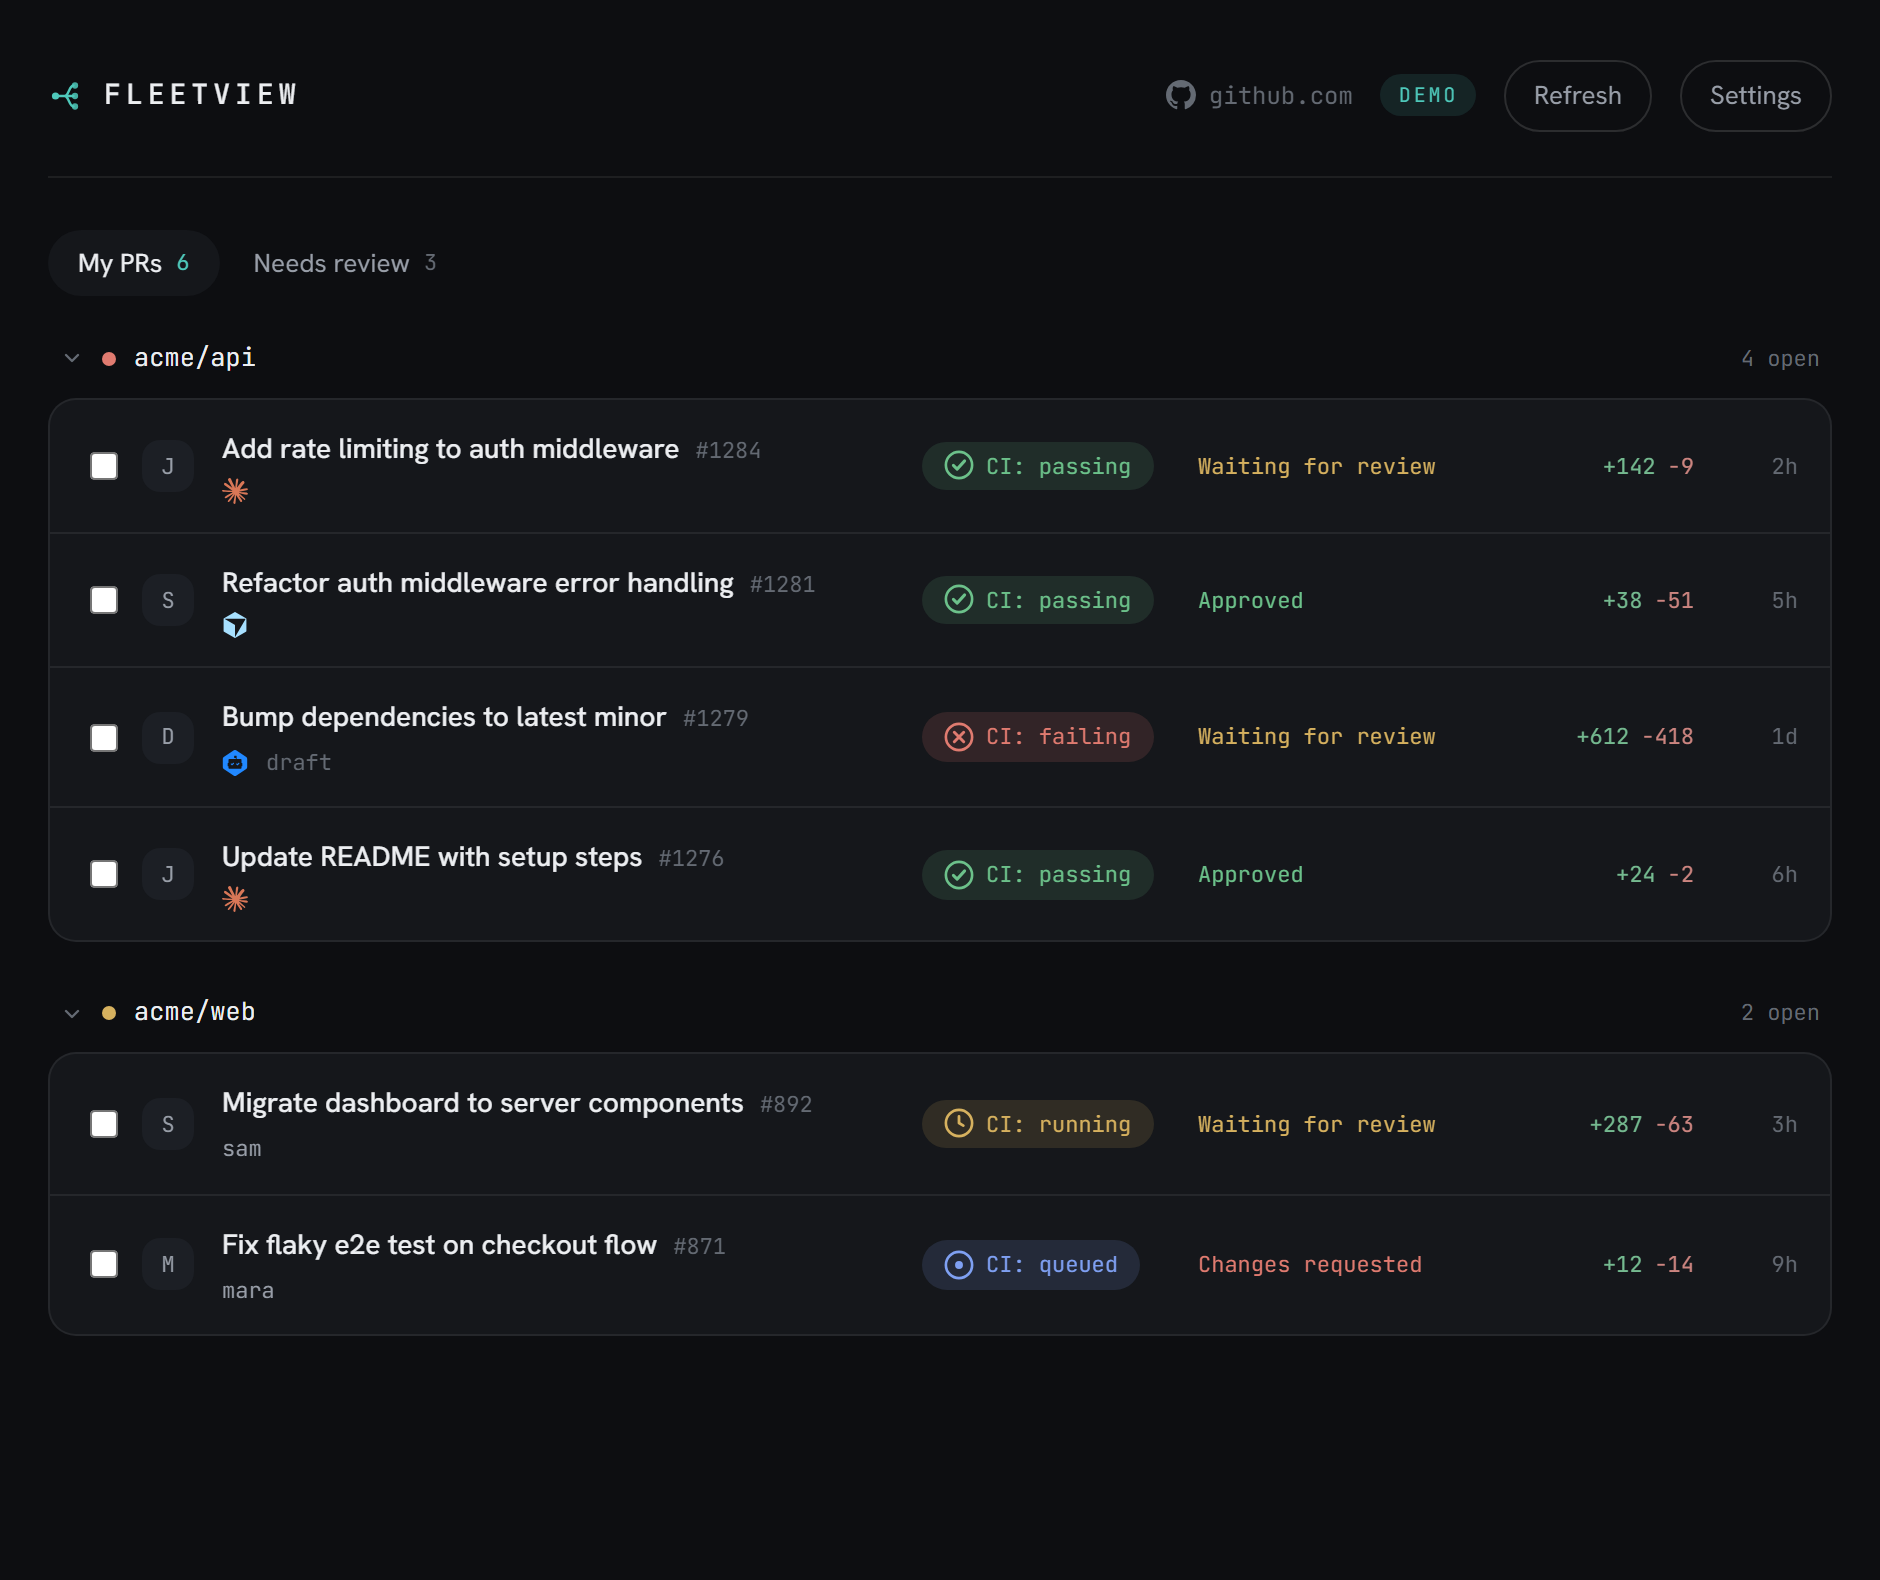
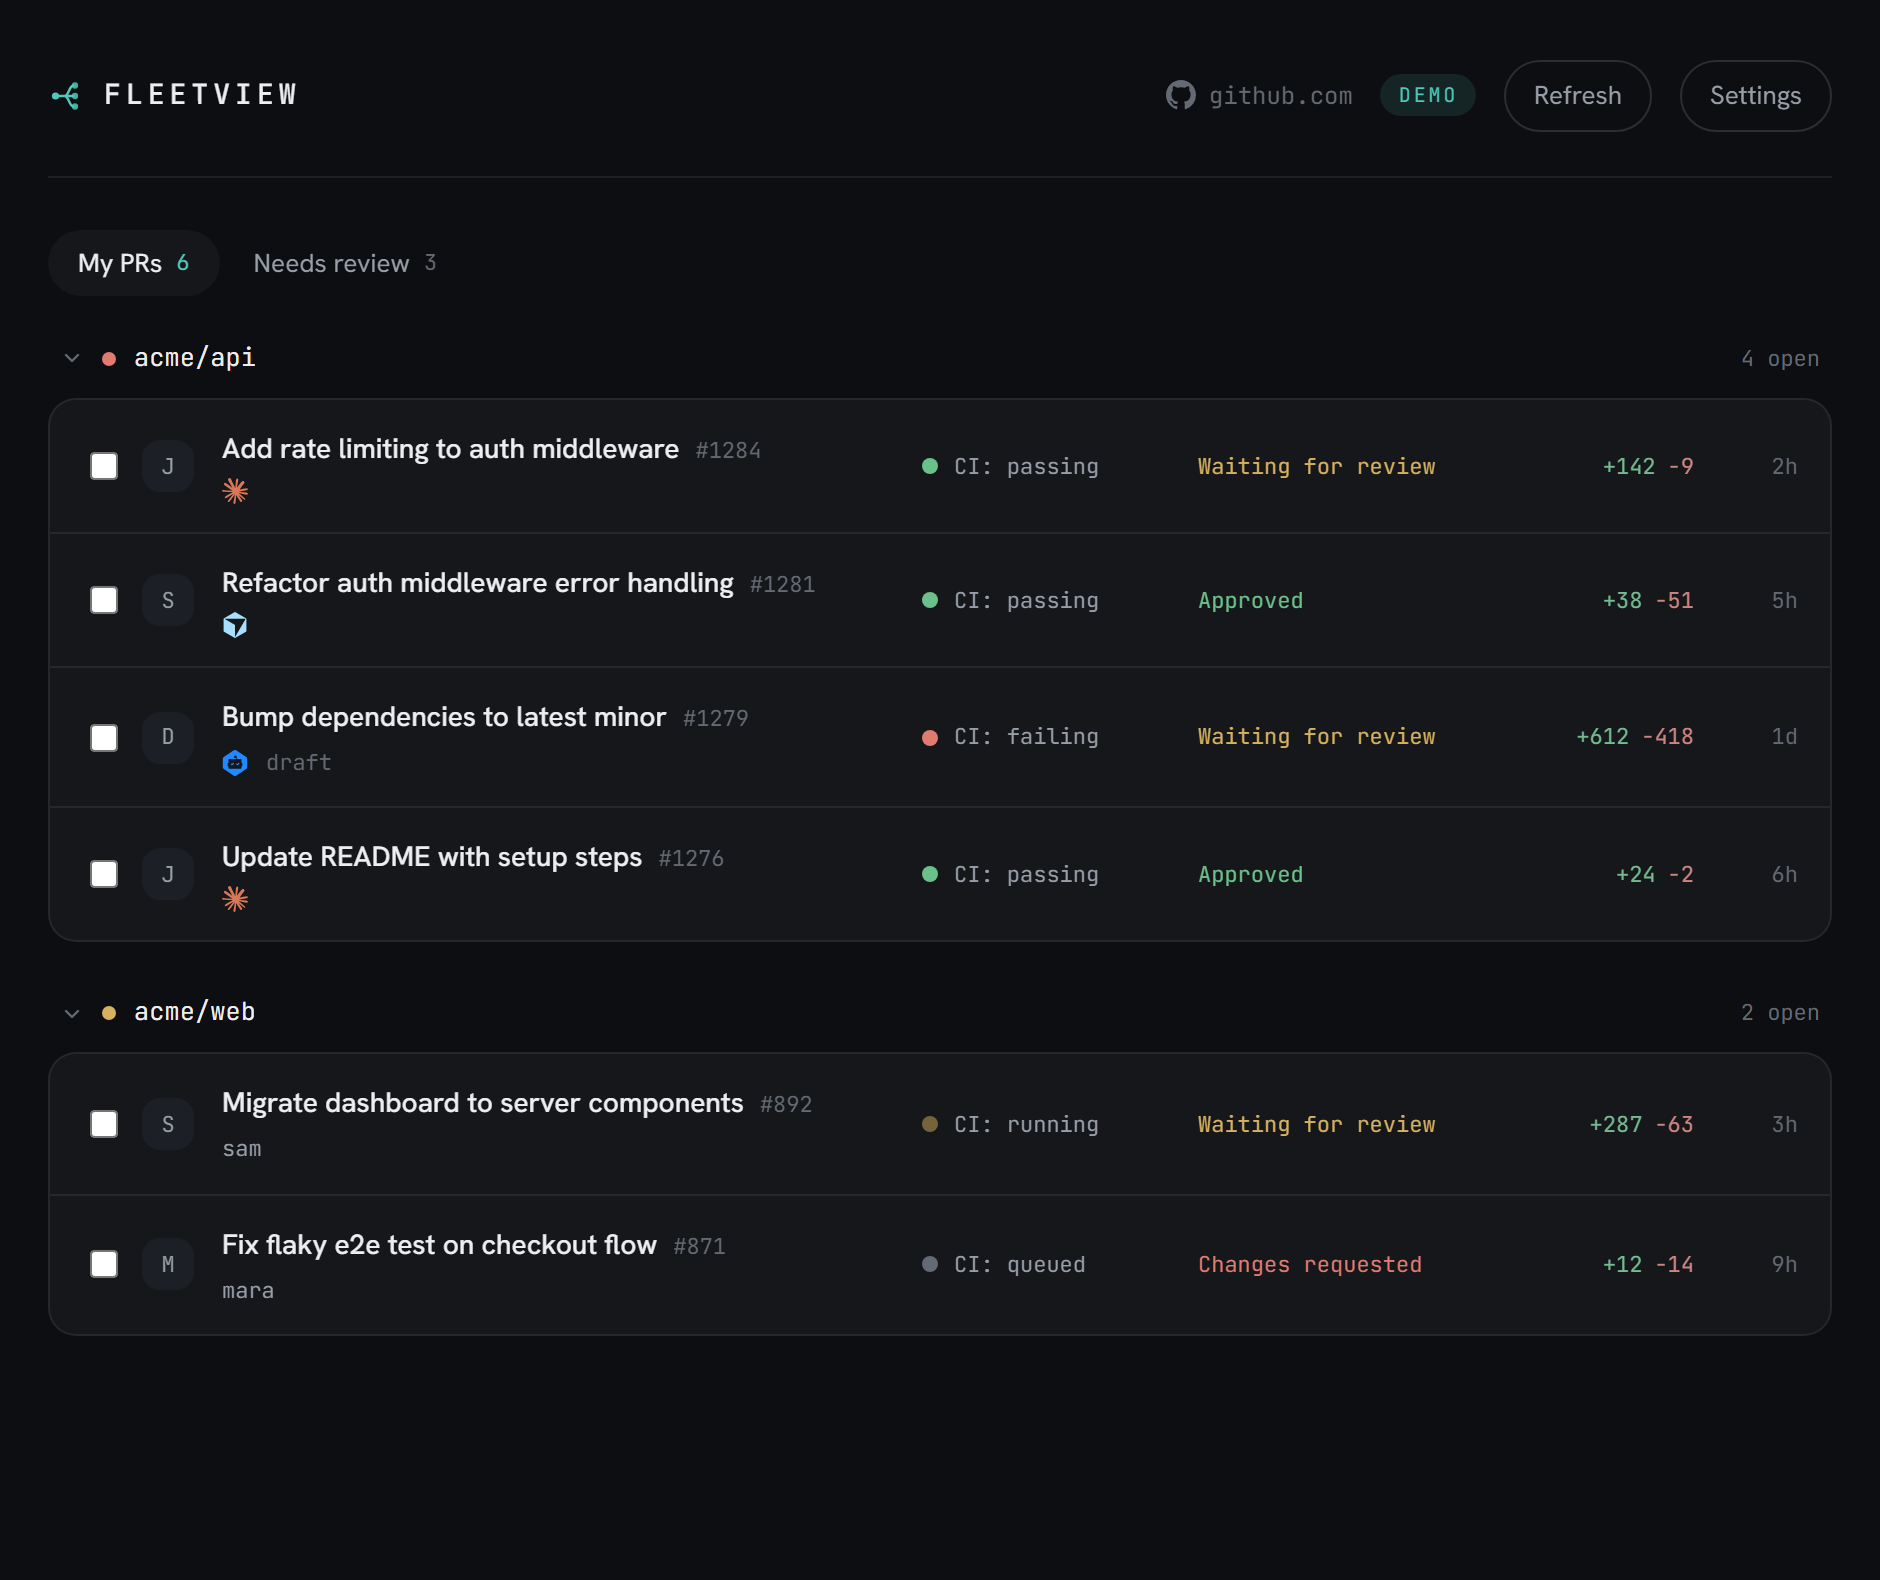
CI: subtle status light instead of a tinted pill
Replace the CI pill with a small GitHub-style status dot + muted label: green
passing, red failing, gray queued/none, and a gently pulsing yellow dot for
running (was too intense as a filled amber pill).

diff --git a/src/index.css b/src/index.css
@@ -425,7 +425,8 @@ button:focus-visible {
   color: var(--text-3);
 }
 
-/* ---- CI pill (links to checks) ---- */
+/* ---- CI status light (links to checks) ---- */
+/* color classes drive both the row light and the repo rollup dot */
 .ci-success {
   color: var(--pass);
 }
@@ -436,7 +437,7 @@ button:focus-visible {
   color: var(--pending);
 }
 .ci-queued {
-  color: var(--queued);
+  color: var(--text-3);
 }
 .ci-none {
   color: var(--text-3);
@@ -444,35 +445,42 @@ button:focus-visible {
 .ci {
   display: inline-flex;
   align-items: center;
-  gap: 6px;
+  gap: 8px;
   justify-self: start;
-  padding: 4px 11px;
-  border-radius: 999px;
   font-family: var(--font-mono);
   font-size: 11px;
+  color: var(--text-2);
   text-decoration: none;
-  transition: filter 0.14s ease;
-}
-.ci.ci-success {
-  background: color-mix(in srgb, var(--pass) 13%, transparent);
-}
-.ci.ci-failure {
-  background: color-mix(in srgb, var(--fail) 14%, transparent);
-}
-.ci.ci-pending {
-  background: color-mix(in srgb, var(--pending) 14%, transparent);
-}
-.ci.ci-queued {
-  background: color-mix(in srgb, var(--queued) 14%, transparent);
-}
-.ci.ci-none {
-  background: color-mix(in srgb, var(--text-3) 12%, transparent);
 }
 .ci:hover {
-  filter: brightness(1.16);
+  color: var(--text);
+}
+.ci-dot {
+  width: 8px;
+  height: 8px;
+  border-radius: 50%;
+  background: currentColor;
+  flex-shrink: 0;
+}
+.ci-dot.ci-pending {
+  animation: ci-pulse 1.6s ease-out infinite;
 }
 .ci-label {
   white-space: nowrap;
+}
+@keyframes ci-pulse {
+  0% {
+    opacity: 1;
+    box-shadow: 0 0 0 0 color-mix(in srgb, var(--pending) 55%, transparent);
+  }
+  70% {
+    opacity: 0.5;
+    box-shadow: 0 0 0 5px color-mix(in srgb, var(--pending) 0%, transparent);
+  }
+  100% {
+    opacity: 1;
+    box-shadow: 0 0 0 0 color-mix(in srgb, var(--pending) 0%, transparent);
+  }
 }
 
 .rev {

diff --git a/src/App.tsx b/src/App.tsx
@@ -19,7 +19,7 @@ import {
   type ReviewStatus,
 } from "./lib/derive";
 import { demoResult } from "./lib/demo";
-import { Chevron, CiIcon, GithubMark, Logo, XMark } from "./lib/icons";
+import { Chevron, GithubMark, Logo, XMark } from "./lib/icons";
 import { BRAND_PATHS, BrandMark } from "./lib/brand";
 
 type Filter = "all" | "review";
@@ -427,14 +427,14 @@ export function App() {
                           </div>
                         </div>
                         <a
-                          className={`ci ci-${ci}`}
+                          className="ci"
                           href={`${pr.url}/checks`}
                           target="_blank"
                           rel="noreferrer"
-                          title="Open CI checks on GitHub"
+                          title={`${CI_LABEL[ci]} — open checks`}
                           onClick={(e) => e.stopPropagation()}
                         >
-                          <CiIcon status={ci} />
+                          <span className={`ci-dot ci-${ci}`} />
                           <span className="ci-label">{CI_LABEL[ci]}</span>
                         </a>
                         <span className={`rev rev-${rev}`}>{REVIEW_LABEL[rev]}</span>